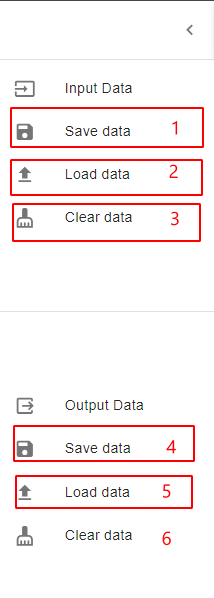
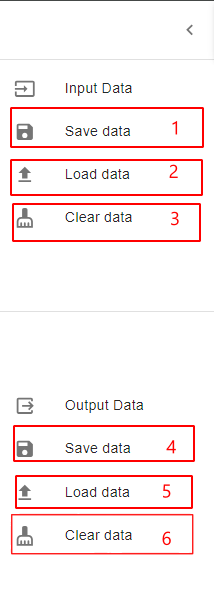
update

Changed region(s): [[0.028, 0.8428, 0.9252, 0.9331]]

diff --git a/_posts/2024-05-03-application-guide.md b/_posts/2024-05-03-application-guide.md
@@ -5,26 +5,79 @@ subtitle: how to use the application
 gh-repo: daattali/beautiful-jekyll
 ---
 
+**You will be labeled according to the numbers as well as working through the numerical sequence.**
+
+Table of content
+1. [Inputs](#inputs-page)
+   1. [Modify Model](#1-modify-model)
+   2. [Inputs Dashboard](#2-inputs-dashboard)
+   3. [Other Buttons](#3-other-buttons)
+2. [Results](#results-page)
+   1. [Objective](#1-objective)
+   2. [Map](#2-map)
+3. [Side Panel](#side-panel)
+   1. [Data options](#data-options)
+   2. [Input Data](#input-data)
+   3. [Output Data](#output-data)
+
+*******
+
 ## Inputs page
 
 ![inputs](https://github.com/OSDModeling/OSDModeling-Guide/blob/main/_posts/inputs.PNG?raw=true")
+Overview
 
 ### 1. Modify Model
 
+#### 1.1 Input your data
+
 ![modify model](https://github.com/OSDModeling/OSDModeling-Guide/blob/main/_posts/modify_model.PNG?raw=true")
+
+1 & 2: Base location latitude(N°) and longitude(E°)
+
+3 & 4: Recon location latitude(N°) and longitude(E°)
+
+5: Size of recon location(km²). This will be the size of the land you want your UAV operating.
+
+6: The duration you want your UAV operating.
+
+7: The minimum coverage in percentage you want your UAV cover in recon location.
+
+8.1: Select a UAV from our default data.
 
 ![dropdown select](https://github.com/OSDModeling/OSDModeling-Guide/blob/main/_posts/dropdown_select.PNG?raw=true")
 
+This dialog will popout in your screen for you to fill out.
+
+8.2: You can upload your data as csv format with 'Name', 'Coverage', 'Endurance' and 'Speed' columns.
+
+8.3: A tooltip to remind you when you hover it.
+
+8.4 & 8.5 & 8.6 & 8.7: You can also type in your data in UI.
+
+8.8: Button to add your type in data into system
+
+8.9: This will be showing on your screen after you add your data.
+
 ![system info](https://github.com/OSDModeling/OSDModeling-Guide/blob/main/_posts/system_info.PNG?raw=true")
+
+1. You can edit added data by click the editing icon.
+2. You can remove added data by click the trash icon.
 
 ### 2. Inputs Dashboard
 
+A simple dashboard for you to overview your inputted data.
 ![inputs dashboard](https://github.com/OSDModeling/OSDModeling-Guide/blob/main/_posts/inputs_dashboard.PNG?raw=true")
 
 ### 3. Other Buttons
 
+Some other buttons.
+
 ![inputs other buttons](https://github.com/OSDModeling/OSDModeling-Guide/blob/main/_posts/other_buttons.PNG?raw=true")
 
+1. A map feature allow you to toggle map with the data you inputted.
+2. After you confirm you inputted data you can run the model.
+2.1. An error message pops up in the lower right corner of the screen.
 
 ************
 
@@ -32,30 +85,57 @@ gh-repo: daattali/beautiful-jekyll
 
 ![results](https://github.com/OSDModeling/OSDModeling-Guide/blob/main/_posts/results.PNG?raw=true")
 
+Overview
+
 ### 1. Objective
 
 ![objective dropdown](https://github.com/OSDModeling/OSDModeling-Guide/blob/main/_posts/objective_dropdown.PNG?raw=true")
 
-![objective1](https://github.com/OSDModeling/OSDModeling-Guide/blob/main/_posts/objective1.PNG?raw=true")
+You can select 1 objective from the 3 objective we provide:
+
+`Maximize Coverage Area`, `Maximize duration at Point B` and `Minimize Drones Used`.
 
 ![objective2](https://github.com/OSDModeling/OSDModeling-Guide/blob/main/_posts/objective2.PNG?raw=true")
+
+1. Selected drones(with drone info).
+2. other useful info for selected objective.
+
+![objective1](https://github.com/OSDModeling/OSDModeling-Guide/blob/main/_posts/objective1.PNG?raw=true")
+
+If model have no valid combinations found will show like the above image.
 
 ### 2. Map
 
 ![map](https://github.com/OSDModeling/OSDModeling-Guide/blob/main/_posts/map.PNG?raw=true")
 
+There will be a polyline connect with both base and recon location.
+
+1. Click on the marker of Recon location will show more info of recon location with calculated radius(blue circle).
+2. Click on the marker of Base location will show more info of base location.
+
 **********
 
 ## Side Panel
-
-### Data option
+A simple options for you to save data locally.
+### Data options
 
 ![data](https://github.com/OSDModeling/OSDModeling-Guide/blob/main/_posts/data.PNG?raw=true")
+
+1 & 2 & 3 Save, load and clear inputted data.
+4 & 5 & 6 Save, load and clear inputted and results data.
+
+**You must run model before you click on any option of output data section.**
 
 #### Input Data
 
 ![input_data](https://github.com/OSDModeling/OSDModeling-Guide/blob/main/_posts/input_data.PNG?raw=true")
 
+Confirmation dialog before save data after click on option.
+
 #### Output Data
 
 ![output_data](https://github.com/OSDModeling/OSDModeling-Guide/blob/main/_posts/output_data.PNG?raw=true")
+
+Confirmation dialog before save data after click on option.
+
+**********
